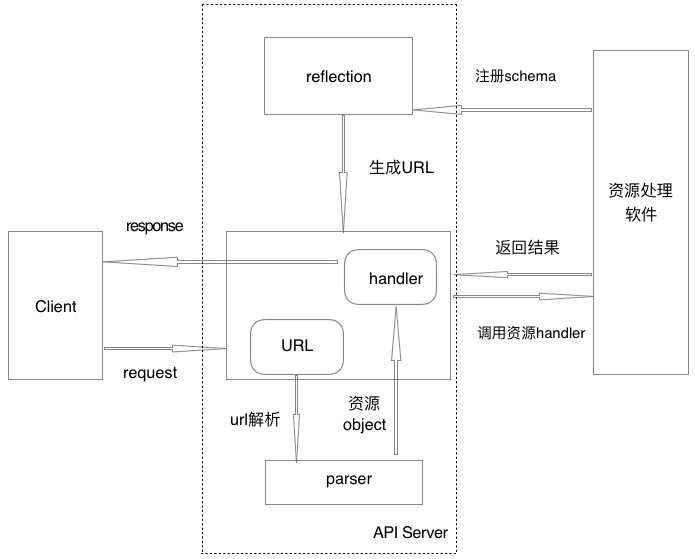
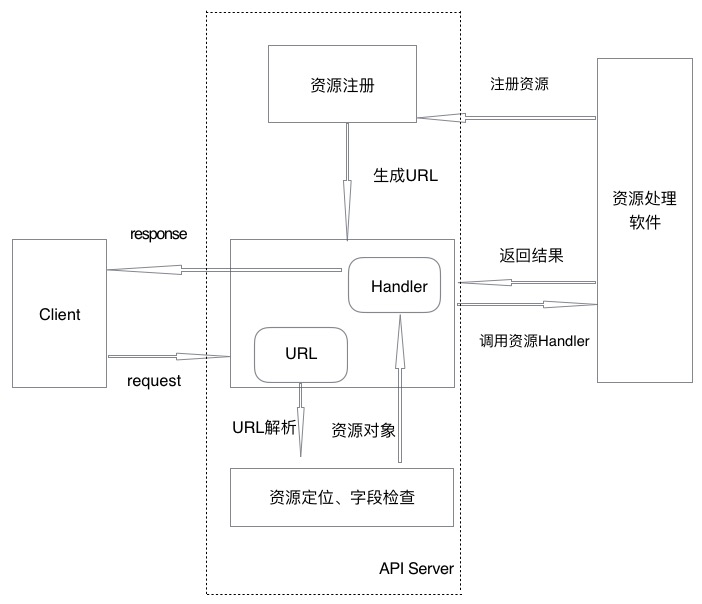
update docs for restapi

diff --git a/docs/design/restapi.md b/docs/design/restapi.md
@@ -7,87 +7,122 @@ api server 会使用注册的资源schema及schema之间父子关系，自动生
 ![""](restapi.jpg)
 # 详细设计
 *  资源定义
-	* api server提供object接口，用来设置或获取资源基础属性
-
-			type Object interface {
-    			ObjectID
-    			ObjectType
-    			ObjectLinks
-    			ObjectTimestamp
-    			ObjectParent
-    			ObjectSchema
+	* api server提供Resource接口，用来设置或获取资源基础属性
+	
+			type Resource interface {
+    			GetParent() Resource
+    			SetParent(Resource)
+    			GetID() string
+    			SetID(string)
+    			GetLinks() map[ResourceLinkType]ResourceLink
+    			SetLinks(map[ResourceLinkType]ResourceLink)
+    			GetCreationTimestamp() time.Time
+    			SetCreationTimestamp(time.Time)
+    			GetSchema() Schema
+    			SetSchema(Schema)
+    			SetType(string)
+    			GetType() string
+    			GetAction() *Action
+    			SetAction(*Action)
+			}
+	
+    * api server提供ResourceKind接口，用来获取资源所有父资源、创建资源默认值、生成资源支持的Action
+		
+			type ResourceKind interface {
+    			GetParents() []ResourceKind
+    			CreateDefaultResource() Resource
+    			CreateAction(name string) *Action
 			}
 
-    * api server 提供Resource基础资源对象，实现Object接口，每个资源的定义必须包含Resource
+    * api server 提供ResourceBase基础资源对象，实现Resource和ResourceKind接口，每个资源的定义必须包含ResourceBase
     
-    		type Resource struct {
-    			ID                string             
-    			Type              string             
-    			Links             map[string]string  
-    			CreationTimestamp ISOTime            
-    			Parent            Object             
-    			Schema            *Schema            
+			type ResourceBase struct {
+    			ID                string                            `json:"id,omitempty"`
+    			Type              string                            `json:"type,omitempty"`
+    			Links             map[ResourceLinkType]ResourceLink `json:"links,omitempty"`
+    			CreationTimestamp ISOTime                           `json:"creationTimestamp,omitempty"`
+    			action *Action  `json:"-"`
+    			parent Resource `json:"-"`
+    			schema Schema   `json:"-"`
 			}
 	资源定义案例如下：
 	
 			type Secret struct {
-				resttypes.Resource `json:",inline"`
+				resttypes.ResourceBase `json:",inline"`
 				Name               string       `json:"name"`
 			}
-   			
-	* api server提供Handler接口，完成资源的增删改查操作，资源需实现所支持的操作
-	
-			type Handler interface {
-    			Create(*Context, []byte) (interface{}, *APIError)
-    			Delete(*Context) *APIError
-    			Update(*Context) (interface{}, *APIError)
-    			List(*Context) interface{}
-    			Get(*Context) interface{}
-    			Action(*Context) (interface{}, *APIError)
+    * api server 提供ResourceCollection基础资源对象，表示相同ResourceType的资源集合，所有资源存放在Resources字段中，当对资源进行list操作时，就会返回Type为collection的ResourceCollection资源
+
+			type ResourceCollection struct {
+    			Type         string                            `json:"type,omitempty"`
+    			ResourceType string                            `json:"resourceType,omitempty"`
+    			Links        map[ResourceLinkType]ResourceLink `json:"links,omitempty"`
+    			Resources    []Resource                        `json:"data"`
+
+    			collection Resource `json:"-"`
 			}
+
+	* api server提供Handler接口，获取资源增删改查的Handler，资源需实现所支持的操作的Handler，在注册资源时，会将这些Handler保存到schema的handler中
+		
+			type Handler interface {
+    			GetCreateHandler() CreateHandler
+    			GetDeleteHandler() DeleteHandler
+    			GetUpdateHandler() UpdateHandler
+    			GetListHandler() ListHandler
+    			GetGetHandler() GetHandler
+    			GetActionHandler() ActionHandler
+			}
+	
+			type CreateHandler func(*Context) (Resource, *goresterr.APIError)
+			type DeleteHandler func(*Context) *goresterr.APIError
+			type UpdateHandler func(*Context) (Resource, *goresterr.APIError)
+			type ListHandler func(*Context) interface{}
+			type GetHandler func(*Context) Resource
+			type ActionHandler func(*Context) (interface{}, *goresterr.APIError)
     
 	* api server提供字段检查，字段检查的json tag为rest，每个属性用逗号分隔
 
 			type Http struct {
 			  resttypes.Resource `json:",inline"`
-			  Port int `json:"port" rest:"required=false,default=9000"`
+			  Port int `json:"port" rest:"required=false,min=1000,max=10000"`
 			}
   	
   	目前字段检查支持:
   	  * required: 当为true时表示字段是必传字段，如果是空就会报错
-  	  * default: 当字段为空时，为其填充该默认值
   	  * options: 当字段为enum类型，有效字段集合定义在options，以 | 分割，如：options=TCP|UDP
+  	  * min、max: 当字段为整形，可以设置字段的最小值和最大值
+  	  * minLen、maxLen: 当字段类型为字符串，可以设置字段的最小长度和最大长度
   	
   	字段检查逻辑
       * 首先检查字段是否为空，如果为空，且字段属性required＝true，则报错
-      * 其次查看字段属性options是否为空，如果不为空，且字段值不在options范围内，则报错
-      * 最后如果字段为空，且字段属性default值不为空，将default值赋给该字段   
+      * 其次查看字段其他属性
+        * 如果字段属性options不为空，且字段值不在options范围内，则报错  
+        * 如果整形字段值不在min和max之间，则报错
+        * 如果字符串字段的长度不在minLen和maxLen之间，则报错 
 
 * schema
   * schema字段定义
 
 		type Schema struct {
-    		Version           APIVersion        
-    		PluralName        string            
-    		ResourceMethods   []string          
-    		ResourceFields    map[string]Field  
-    		ResourceActions   []Action          
-    		CollectionMethods []string          
-    		CollectionFields  map[string]Field 
-    		CollectionActions []Action         
-
-    		StructVal reflect.Value 
-    		Handler   Handler		
-    		Parents   []string
+    		version          *resource.APIVersion
+    		fields           resourcefield.ResourceField
+    		actions          []resource.Action
+    		handler          resource.Handler
+    		resourceKind     resource.ResourceKind
+    		resourceName     string
+    		resourceKindName string
+    		children         []*Schema
 		}
-  其中StructVal为资源结构体定义的反射值，Handler为资源实现具体操作的接口，Parents为资源的父资源，一个资源可以有多个父资源
+	其中fields为资源字段属性，用于字段检查，handler为资源所支持的所有操作，resourceName是资源名字，全小写形式保存，如StatefulSet的resourceName为statefulset，resourceKindName为资源复数名字，如StatefulSet的resourceKindName为statefulsets
+ 
   * 注册schema函数
   
-		MustImportAndCustomize(version *APIVersion, obj interface{}, handler Handler, f func(*Schema, Handler), externalOverrides ...interface{})
-  其中入参 f 为自定义函数，用来设置schema的Handler、Parents、ResourceMethods、ResourceActions、CollectionMethods等字段
+		Import(v *resource.APIVersion, kind resource.ResourceKind, handler interface{}) 
 
+	通过参数handler，使用resource.HandlerAdaptor函数，解析出资源所支持的操作并保存到资源schema中，通过kind参数解析资源字段属性并保存到资源schema中
+		
 * URL生成
-  * 资源URL由groupPrefix、apiversion和资源父子关系组成, 目前支持的groupPrefix只有/apis， apiversion包含group和version两个字段，group目前只支持zcloud.cn，version为v1
+  * 资源URL GroupPrefix、APIVersion和资源父子关系组成, 目前支持的GroupPrefix只有/apis， APIVersion包含group和version两个字段，group目前只支持zcloud.cn，version为v1
   * 如果资源是顶级资源，没有父资源，如cluster，自动生成URL为 /apis/zcloud.cn/v1/clusters
   * 如果资源只有一个父资源，如namespace父资源为cluster，那么自动生成URL为 /apis/zcloud.cn/v1/clusters/cluster_id/namespaces
   * 如果资源有多个父资源，那么会自动生成多个URL， 如pod父资源有deployment、daemonset、statefulset，自动生成的URL为：
@@ -96,7 +131,7 @@ api server 会使用注册的资源schema及schema之间父子关系，自动生
     /apis/zcloud.cn/v1/clusters/cluster_id/namespaces/namespace_id/statefulsets/statefulset_id/pods
   
 * Links
-  * 资源注册schema到api server，操作资源时response会有links字段返回，方便client快捷使用，如statefulset的id为sts123的资源links如下
+  * 资源注册schema到api server，操作资源时response会有Links字段返回，方便client快捷使用，如statefulset的id为sts123的资源Links如下
 
 		{
 			"links": {
@@ -108,12 +143,16 @@ api server 会使用注册的资源schema及schema之间父子关系，自动生
     		}
     	} 
    
-  * links说明如下  		
-    * 如果资源支持单个资源的get，即资源schema的ResourceMethods中设置了GET，links中就会包含self
-    * 如果资源支持所有资源的list， 即资源schema的CollectionMethods中设置了GET，links中就会包含collection
-    * 如果资源支持删除操作，即资源schema的ResourceMethods中设置了DELETE，links中就会包含remove
-    * 如果资源支持更新操作，即资源schema的ResourceMethods中设置了PUT，links中就会包含update
-    * 如果资源有子资源，如statefulset的是pod父资源，links中会包含pod的collection，即pods
-    
+  * links说明如下
+    * 单个资源的Links  		
+      * 如果资源支持单个资源的get，即资源schema的handler中设置了getHandler，links中就会包含self
+      * 如果资源支持所有资源的list， 即资源schema的handler中设置了listHandler，links中就会包含collection
+      * 如果资源支持删除操作，即资源schema的handler中设置了deleteHandler，links中就会包含remove
+      * 如果资源支持更新操作，即资源schema的handler中设置了updateHandler，links中就会包含update
+      * 如果资源有子资源，如statefulset的是pod父资源，links中会包含pod的collection，即pods
+    * 当list资源时返回ResourceCollection
+      * ResourceCollection的Links存放self
+      * Resource中每个资源都需要设置这个资源所支持的所有Links
+  
 # 未来工作
-* 添加更多的字段属性检查
+* 添加更多的字段属性检查，如检查ipv4和ipv6有效性，域名检查，host检查等
